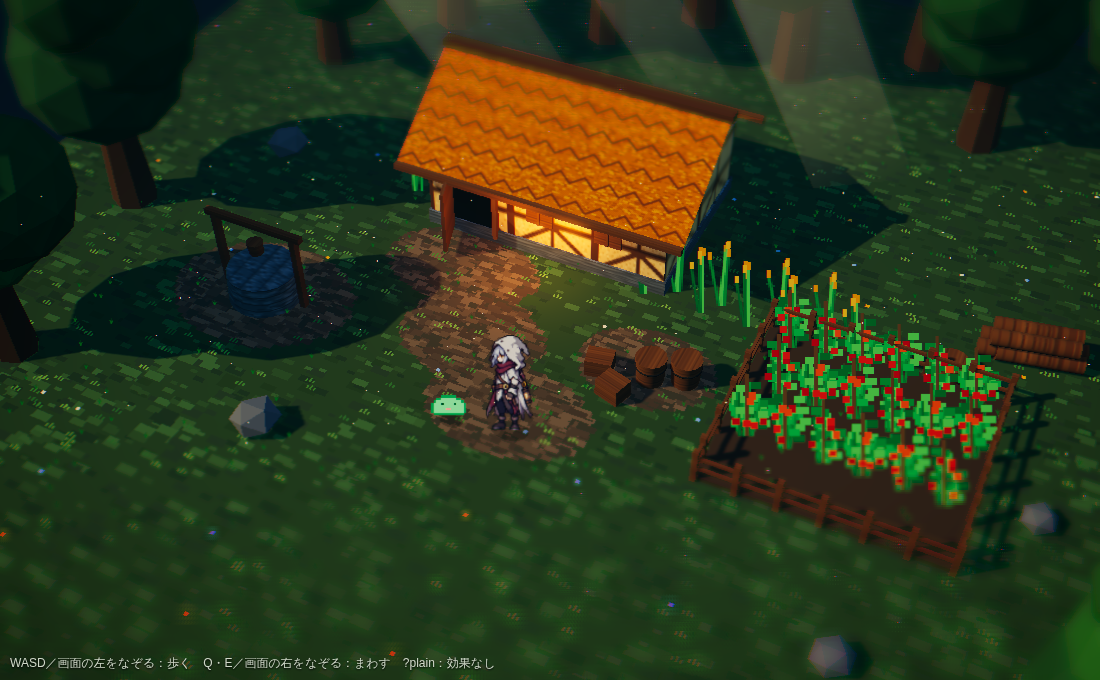
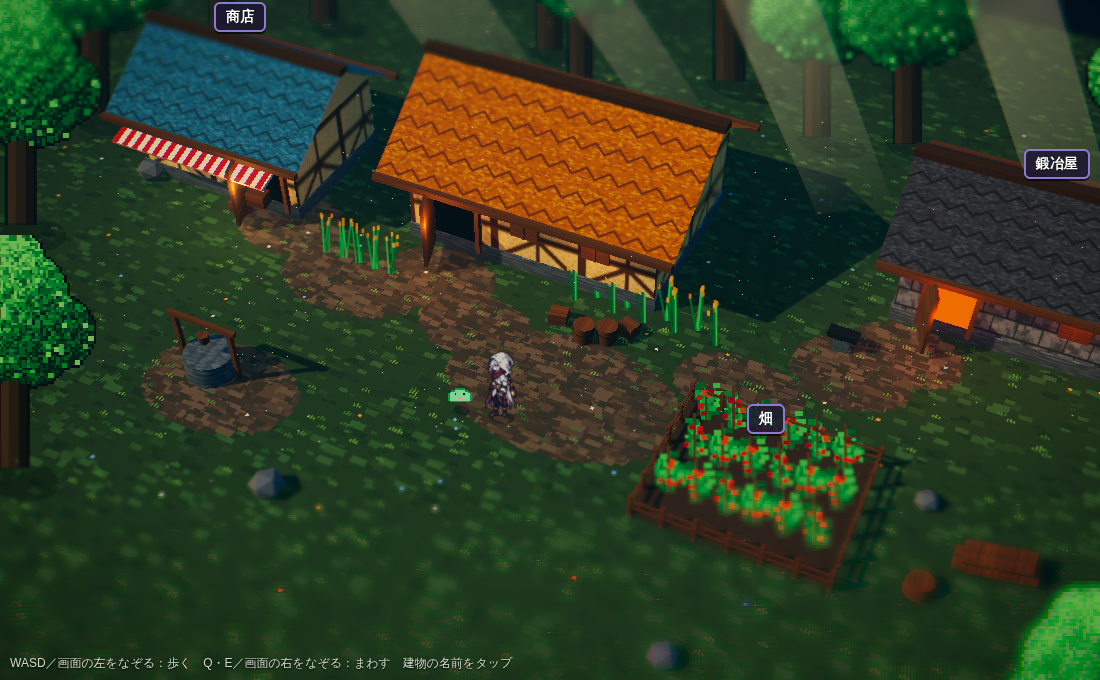
ドット迷宮：ホーム第2版（大きい建物・商店と鍛冶屋・ドット絵の木・畑と店と鍛冶屋の画面）
Claude-Session: https://claude.ai/code/session_01PXvRjEgLscSV4i6yF2Genv

diff --git a/games/dot-meikyu/home/index.html b/games/dot-meikyu/home/index.html
@@ -3,15 +3,25 @@
 <meta name="viewport" content="width=device-width,initial-scale=1,maximum-scale=1,user-scalable=no">
 <title>ドット迷宮 ホーム（見た目の試作）</title>
 <style>
-html,body{margin:0;height:100%;background:#0b1013;overflow:hidden;touch-action:none;user-select:none;-webkit-user-select:none}
+html,body{margin:0;height:100%;background:#0b1013;overflow:hidden;touch-action:none;user-select:none;-webkit-user-select:none;font-family:"Hiragino Kaku Gothic ProN","Noto Sans JP","Yu Gothic",Meiryo,sans-serif}
 canvas{display:block}
-#hint{position:fixed;left:10px;bottom:8px;color:#cfd8c8;font:12px/1.5 "Hiragino Kaku Gothic ProN","Noto Sans JP",sans-serif;text-shadow:0 1px 2px #000;pointer-events:none}
-#err{position:fixed;inset:0;display:none;align-items:center;justify-content:center;color:#fff;font:14px sans-serif;padding:20px;text-align:center}
+#hint{position:fixed;left:10px;bottom:8px;color:#cfd8c8;font-size:12px;line-height:1.5;text-shadow:0 1px 2px #000;pointer-events:none}
+.lab{position:fixed;transform:translate(-50%,-100%);background:#1d1830e0;color:#fff;border:2px solid #8a7bd0;border-radius:6px;padding:4px 10px;font-size:14px;font-weight:bold;cursor:pointer;white-space:nowrap;text-shadow:0 1px 0 #000;box-shadow:0 2px 0 #000a}
+.lab:active{transform:translate(-50%,-96%)}
+#panel{position:fixed;left:50%;top:50%;transform:translate(-50%,-50%);width:min(88vw,420px);max-height:84vh;overflow:auto;background:#1b1628f2;color:#f2eee6;border:3px solid #8a7bd0;border-radius:8px;padding:14px 16px;display:none;box-shadow:0 6px 0 #000a;font-size:15px;line-height:1.6}
+#panel h2{margin:0 0 6px;font-size:20px;color:#ffd34d}
+#panel .row{display:flex;justify-content:space-between;align-items:center;gap:8px;padding:6px 0;border-bottom:1px solid #3a3358}
+#panel button{background:#3d3560;color:#fff;border:2px solid #8a7bd0;border-radius:6px;padding:6px 12px;font:inherit;font-size:14px;cursor:pointer;white-space:nowrap}
+#panel button:disabled{opacity:.4;cursor:default}
+#panel .bar{height:8px;background:#0008;border-radius:4px;overflow:hidden;width:90px;display:inline-block;vertical-align:middle}
+#panel .bar i{display:block;height:100%;background:#6edb86}
+#panel .note{font-size:12px;color:#a9a3c0}
+#panel .close{margin-top:10px;width:100%}
 </style>
 <script type="importmap">{"imports":{"three":"https://cdn.jsdelivr.net/npm/three@0.160.0/build/three.module.js","three/addons/":"https://cdn.jsdelivr.net/npm/three@0.160.0/examples/jsm/"}}</script>
 </head><body>
-<div id="hint">WASD／画面の左をなぞる：歩く　Q・E／画面の右をなぞる：まわす　?plain：効果なし</div>
-<div id="err">3Dの部品をネットから読み込めませんでした。ネットにつないで開きなおしてください。</div>
+<div id="hint">WASD／画面の左をなぞる：歩く　Q・E／画面の右をなぞる：まわす　建物の名前をタップ</div>
+<div id="panel"></div>
 <script src="sprites.js"></script>
 <script type="module">
 import * as THREE from 'three';
@@ -20,6 +30,14 @@ import {RenderPass} from 'three/addons/postprocessing/RenderPass.js';
 import {UnrealBloomPass} from 'three/addons/postprocessing/UnrealBloomPass.js';
 import {ShaderPass} from 'three/addons/postprocessing/ShaderPass.js';
 import {OutputPass} from 'three/addons/postprocessing/OutputPass.js';
+
+// ===== セーブ（戦闘のゲームと同じ入れもの） =====
+const SAVE='dotmeikyu_v1';
+let save={souls:0,up:{hp:0,luck:0,reroll:0},best:0};
+try{const s=JSON.parse(localStorage.getItem(SAVE));if(s&&s.up)save=Object.assign(save,s,{up:Object.assign(save.up,s.up)})}catch(e){}
+save.home=Object.assign({coins:0,inv:{tomato:0,potion:0},plots:[0,0,0],love:0},save.home);
+save.home.inv=Object.assign({tomato:0,potion:0},save.home.inv);
+const persist=()=>{try{localStorage.setItem(SAVE,JSON.stringify(save))}catch(e){}};
 
 // ===== 小道具 =====
 const PLAIN=location.search.includes('plain');
@@ -35,85 +53,101 @@ renderer.setPixelRatio(Math.min(devicePixelRatio,2));renderer.setSize(innerWidth
 renderer.shadowMap.enabled=true;renderer.shadowMap.type=THREE.PCFSoftShadowMap;
 renderer.toneMapping=THREE.ACESFilmicToneMapping;renderer.toneMappingExposure=1.45;
 document.body.appendChild(renderer.domElement);
-const scene=new THREE.Scene();scene.background=new THREE.Color('#16222a');scene.fog=new THREE.FogExp2('#1e3034',.02);
-const camera=new THREE.PerspectiveCamera(30,innerWidth/innerHeight,.5,80);
+const scene=new THREE.Scene();scene.background=new THREE.Color('#16222a');scene.fog=new THREE.FogExp2('#1e3034',.017);
+const camera=new THREE.PerspectiveCamera(30,innerWidth/innerHeight,.5,120);
 scene.add(new THREE.HemisphereLight('#9fbce0','#3a5030',1.5));
-const sun=new THREE.DirectionalLight('#ffcf8f',3.4);sun.position.set(-9,9,7);sun.castShadow=true;
-sun.shadow.mapSize.set(2048,2048);Object.assign(sun.shadow.camera,{left:-15,right:15,top:15,bottom:-15,near:1,far:40});sun.shadow.bias=-.0004;sun.shadow.radius=3;
+const sun=new THREE.DirectionalLight('#ffcf8f',3.4);sun.position.set(-12,12,9);sun.castShadow=true;
+sun.shadow.mapSize.set(2048,2048);Object.assign(sun.shadow.camera,{left:-24,right:24,top:20,bottom:-20,near:1,far:60});sun.shadow.bias=-.0004;sun.shadow.radius=3;
 scene.add(sun);scene.add(sun.target);
 
 // ===== 地面（ドット絵ふうの草と土） =====
-const GROUND=30;
-const gt=ctex(768,768,(x,w,h)=>{const R=rng(7);x.fillStyle='#2c4528';x.fillRect(0,0,w,h);
+const GROUND=48;
+const gt=ctex(1024,1024,(x,w,h)=>{const R=rng(7);x.fillStyle='#2c4528';x.fillRect(0,0,w,h);
  const g=['#34502e','#274023','#3d5c35','#2a3f2b','#41633a','#223a25'];
- for(let i=0;i<9000;i++){x.fillStyle=pick(R,g);const s=2+((R()*4)|0);x.fillRect((R()*w)|0,(R()*h)|0,s*2,s)}
- const wx=v=>(v+GROUND/2)/GROUND*w,wz=v=>(v+GROUND/2)/GROUND*h;
- const dirt=(cx,cz,rx,rz,n)=>{for(let i=0;i<n;i++){const a=R()*6.283,r=Math.sqrt(R());x.fillStyle=pick(R,['#4d4036','#5b4b3d','#463a31','#6a5848','#3d3a30']);x.fillRect((wx(cx)+Math.cos(a)*rx*r*w/GROUND)|0,(wz(cz)+Math.sin(a)*rz*r*h/GROUND)|0,4+((R()*7)|0),3+((R()*2)|0))}};
- dirt(-4.2,-.2,1.6,1.1,1500);dirt(-3,1.6,1.4,1.2,1500);dirt(-1.4,3.1,1.6,1.1,1400);dirt(-7.6,2.4,1.9,1.5,1700);dirt(.6,.9,1.3,1,900);
- for(let i=0;i<1400;i++){const px=(R()*w)|0,py=(R()*h)|0;x.fillStyle=pick(R,['#5d8a45','#6f9a4a','#4a7a3c','#3a6a36']);x.fillRect(px,py,1,3);x.fillRect(px+2,py+1,1,2);x.fillRect(px-2,py+1,1,2)}
- for(let i=0;i<120;i++){const px=(R()*w)|0,py=(R()*h)|0;x.fillStyle=pick(R,['#7fa8d8','#e8a03c','#d8d8c0']);x.fillRect(px,py,2,2)}
+ for(let i=0;i<14000;i++){x.fillStyle=pick(R,g);const s=2+((R()*4)|0);x.fillRect((R()*w)|0,(R()*h)|0,s*2,s)}
+ const k=w/GROUND,wx=v=>(v+GROUND/2)*k,wz=v=>(v+GROUND/2)*k;
+ const dirt=(cx,cz,rx,rz,n)=>{for(let i=0;i<n;i++){const a=R()*6.283,r=Math.sqrt(R());x.fillStyle=pick(R,['#4d4036','#5b4b3d','#463a31','#6a5848','#3d3a30']);x.fillRect((wx(cx)+Math.cos(a)*rx*r*k)|0,(wz(cz)+Math.sin(a)*rz*r*k)|0,5+((R()*7)|0),4+((R()*2)|0))}};
+ dirt(0,2,3.4,2.2,3600);dirt(-5.6,-.8,1.6,1.3,1200);dirt(-3.6,.6,1.6,1.2,1000);dirt(-8,.6,2.2,1.3,1300);dirt(-11.2,-1,1.6,1.4,1100);
+ dirt(4.5,-.4,1.8,1.2,1000);dirt(7.2,-2.4,1.6,1.4,1100);dirt(8.4,-3.8,1.5,1.2,900);dirt(-9,6,2.2,1.6,1600);
+ for(let i=0;i<2400;i++){const px=(R()*w)|0,py=(R()*h)|0;x.fillStyle=pick(R,['#5d8a45','#6f9a4a','#4a7a3c','#3a6a36']);x.fillRect(px,py,1,3);x.fillRect(px+2,py+1,1,2);x.fillRect(px-2,py+1,1,2)}
+ for(let i=0;i<200;i++){const px=(R()*w)|0,py=(R()*h)|0;x.fillStyle=pick(R,['#7fa8d8','#e8a03c','#d8d8c0']);x.fillRect(px,py,2,2)}
 });
 const ground=new THREE.Mesh(new THREE.PlaneGeometry(GROUND,GROUND),new THREE.MeshStandardMaterial({map:gt,roughness:1}));
 ground.rotation.x=-Math.PI/2;ground.receiveShadow=true;scene.add(ground);
 
 // ===== 材質の絵 =====
-const thatch=ctex(128,128,(x,w,h)=>{const R=rng(3);x.fillStyle='#b8641d';x.fillRect(0,0,w,h);
- for(let i=0;i<900;i++){x.fillStyle=pick(R,['#c9782a','#a85a1a','#d28a34','#9c501a']);x.fillRect((R()*w)|0,(R()*h)|0,3+((R()*5)|0),2)}
- x.strokeStyle='#6e3612';x.lineWidth=3;for(let r=0;r<4;r++){x.beginPath();for(let i=0;i<=8;i++){const px=i*16,py=r*32+(i%2?10:22);i?x.lineTo(px,py):x.moveTo(px,py)}x.stroke()}},{rep:[3,1.4]});
+function roofTex(base,vars,mark,seed,rep){return ctex(128,128,(x,w,h)=>{const R=rng(seed);x.fillStyle=base;x.fillRect(0,0,w,h);
+ for(let i=0;i<900;i++){x.fillStyle=pick(R,vars);x.fillRect((R()*w)|0,(R()*h)|0,3+((R()*5)|0),2)}
+ x.strokeStyle=mark;x.lineWidth=3;for(let r=0;r<4;r++){x.beginPath();for(let i=0;i<=8;i++){const px=i*16,py=r*32+(i%2?10:22);i?x.lineTo(px,py):x.moveTo(px,py)}x.stroke()}},{rep})}
 function timber(rep){return ctex(128,64,(x,w,h)=>{const R=rng(5);x.fillStyle='#e6c283';x.fillRect(0,0,w,h);
  for(let i=0;i<500;i++){x.fillStyle=pick(R,['#d8b274','#efd193','#cfa966']);x.fillRect((R()*w)|0,(R()*h)|0,3,2)}
  x.fillStyle='#4e2c1b';x.fillRect(0,0,6,h);x.fillRect(w-6,0,6,h);x.fillRect(0,0,w,6);x.fillRect(0,h-6,w,6);x.fillRect(0,h/2-3,w,6);x.fillRect(w/2-3,0,6,h);
  x.strokeStyle='#4e2c1b';x.lineWidth=5;x.beginPath();x.moveTo(6,h-6);x.lineTo(w/2-3,h/2+3);x.moveTo(w-6,h-6);x.lineTo(w/2+3,h/2+3);x.stroke()},{rep})}
+function brick(rep){return ctex(128,64,(x,w,h)=>{const R=rng(12);x.fillStyle='#5d6570';x.fillRect(0,0,w,h);
+ for(let i=0;i<260;i++){x.fillStyle=pick(R,['#6b7480','#4a525c','#757e8a']);x.fillRect((R()*w)|0,(R()*h)|0,8,5)}
+ x.fillStyle='#2d353e';for(let y=0;y<h;y+=16){x.fillRect(0,y,w,2);for(let xx=(y/16%2)*16;xx<w;xx+=32)x.fillRect(xx,y,2,16)}},{rep})}
 const wood=ctex(64,64,(x,w,h)=>{const R=rng(9);x.fillStyle='#6a4025';x.fillRect(0,0,w,h);for(let i=0;i<20;i++){x.fillStyle=pick(R,['#5a3320','#7a4b2c','#4a2a1a']);x.fillRect(0,(R()*h)|0,w,2)}},{rep:[1,1]});
 const stone=ctex(64,64,(x,w,h)=>{const R=rng(11);x.fillStyle='#4a5560';x.fillRect(0,0,w,h);for(let i=0;i<120;i++){x.fillStyle=pick(R,['#5a6672','#3a444f','#66727e']);x.fillRect((R()*w)|0,(R()*h)|0,6,4)}x.fillStyle='#2d353e';for(let y=0;y<h;y+=16)x.fillRect(0,y,w,2)},{rep:[3,1]});
 const M=(o)=>new THREE.MeshStandardMaterial(Object.assign({roughness:.9},o));
 function put(geo,mat,x,y,z,o={}){const m=new THREE.Mesh(geo,mat);m.position.set(x,y,z);m.castShadow=o.cast!==false;m.receiveShadow=true;if(o.rot)m.rotation.set(...o.rot);scene.add(m);return m}
 
-// ===== 家 =====
-const L=5.6,D=4,Hh=1.9,RH=1.5,OV=.5,HX=-2.6,HZ=-3.2;
-const house=new THREE.Group();house.position.set(HX,0,HZ);scene.add(house);
-const frontMat=M({map:timber([L/2,1])}),sideMat=M({map:timber([D/2,1])});
-const walls=new THREE.Mesh(new THREE.BoxGeometry(L,Hh,D),[sideMat,sideMat,M({color:'#3a2a20'}),M({color:'#3a2a20'}),frontMat,frontMat]);
-walls.position.y=Hh/2;walls.castShadow=walls.receiveShadow=true;house.add(walls);
-const base=new THREE.Mesh(new THREE.BoxGeometry(L+.1,.35,D+.1),M({map:stone}));base.position.y=.17;base.receiveShadow=true;house.add(base);
-const dz=D/2+OV,dy=RH+.15,slope=Math.hypot(dz,dy),th=Math.atan2(dy,dz);
-for(const s of[1,-1]){const r=new THREE.Mesh(new THREE.PlaneGeometry(L+OV*2,slope),M({map:thatch,side:THREE.DoubleSide}));
- r.position.set(0,Hh-.15+dy/2,s*dz/2);r.rotation.set(s>0?th-Math.PI/2:Math.PI/2-th,s>0?0:Math.PI,0);r.castShadow=r.receiveShadow=true;house.add(r)}
-const ridge=new THREE.Mesh(new THREE.BoxGeometry(L+OV*2+.1,.16,.3),M({color:'#4e2c1b'}));ridge.position.set(0,Hh+RH+.02,0);ridge.castShadow=true;house.add(ridge);
-for(const s of[1,-1]){const e=new THREE.Mesh(new THREE.BoxGeometry(L+OV*2,.14,.14),M({map:wood}));e.position.set(0,Hh-.15,s*dz);e.castShadow=true;house.add(e);
- const gable=new THREE.Mesh(new THREE.ShapeGeometry(new THREE.Shape([new THREE.Vector2(-D/2,Hh),new THREE.Vector2(D/2,Hh),new THREE.Vector2(0,Hh+RH)])),M({color:'#d9b97b',side:THREE.DoubleSide}));
- gable.position.x=s*(L/2+.01);gable.rotation.y=s*Math.PI/2;house.add(gable)}
-// 戸口・窓・あかり
-const doorX=-1.7;
-const hole=new THREE.Mesh(new THREE.PlaneGeometry(1,1.55),new THREE.MeshBasicMaterial({color:'#050403'}));hole.position.set(doorX,.78+.17,D/2+.02);house.add(hole);
-for(const[x,y,w,h]of[[doorX-.55,1,.1,1.7],[doorX+.55,1,.1,1.7],[doorX,1.82,1.2,.12]]){const f=new THREE.Mesh(new THREE.BoxGeometry(w,h,.14),M({map:wood}));f.position.set(x,y,D/2+.06);f.castShadow=true;house.add(f)}
-const hinge=new THREE.Group();hinge.position.set(doorX-.5,.97,D/2+.1);hinge.rotation.y=-1.25;house.add(hinge);
-const leaf=new THREE.Mesh(new THREE.BoxGeometry(.95,1.55,.08),M({map:wood}));leaf.position.x=.48;leaf.castShadow=true;hinge.add(leaf);
-for(const wx of[-.1,1.5]){const win=new THREE.Mesh(new THREE.PlaneGeometry(.5,.45),new THREE.MeshBasicMaterial({color:'#ffb868'}));win.position.set(wx,1.15,D/2+.03);house.add(win);
- const fr=new THREE.Mesh(new THREE.BoxGeometry(.62,.57,.05),M({map:wood}));fr.position.set(wx,1.15,D/2+.01);house.add(fr);
- const cross=new THREE.Mesh(new THREE.BoxGeometry(.05,.5,.06),M({map:wood}));cross.position.set(wx,1.15,D/2+.06);house.add(cross)}
-const lamp=new THREE.PointLight('#ff9a48',7,7,1.6);lamp.position.set(HX-.3,1.2,HZ+D/2+.9);scene.add(lamp);
-const lamp2=new THREE.PointLight('#ff9a48',3,4,1.6);lamp2.position.set(HX+.7,1.2,HZ+D/2+.5);scene.add(lamp2);
+// ===== 建物（大きめ） =====
+const lights=[];
+function building(o){const{L,D,Hh,RH}=o,OV=.5,g=new THREE.Group();g.position.set(o.x,0,o.z);g.scale.setScalar(o.sc);scene.add(g);
+ const fw=o.wall==='stone'?brick([L/2,1]):timber([L/2,1]),sw=o.wall==='stone'?brick([D/2,1]):timber([D/2,1]);
+ const fm=M({map:fw}),sm=M({map:sw});
+ const walls=new THREE.Mesh(new THREE.BoxGeometry(L,Hh,D),[sm,sm,M({color:'#3a2a20'}),M({color:'#3a2a20'}),fm,fm]);walls.position.y=Hh/2;walls.castShadow=walls.receiveShadow=true;g.add(walls);
+ const base=new THREE.Mesh(new THREE.BoxGeometry(L+.1,.35,D+.1),M({map:stone}));base.position.y=.17;base.receiveShadow=true;g.add(base);
+ const dz=D/2+OV,dy=RH+.15,slope=Math.hypot(dz,dy),th=Math.atan2(dy,dz),rt=roofTex(...o.roof,[(L+1)/2,1.4]);
+ for(const s of[1,-1]){const r=new THREE.Mesh(new THREE.PlaneGeometry(L+OV*2,slope),M({map:rt,side:THREE.DoubleSide}));
+  r.position.set(0,Hh-.15+dy/2,s*dz/2);r.rotation.set(s>0?th-Math.PI/2:Math.PI/2-th,s>0?0:Math.PI,0);r.castShadow=r.receiveShadow=true;g.add(r)}
+ const ridge=new THREE.Mesh(new THREE.BoxGeometry(L+OV*2+.1,.16,.3),M({color:'#3e2418'}));ridge.position.set(0,Hh+RH+.02,0);ridge.castShadow=true;g.add(ridge);
+ for(const s of[1,-1]){const e=new THREE.Mesh(new THREE.BoxGeometry(L+OV*2,.14,.14),M({map:wood}));e.position.set(0,Hh-.15,s*dz);e.castShadow=true;g.add(e);
+  const gable=new THREE.Mesh(new THREE.ShapeGeometry(new THREE.Shape([new THREE.Vector2(-D/2,Hh),new THREE.Vector2(D/2,Hh),new THREE.Vector2(0,Hh+RH)])),M({color:o.wall==='stone'?'#6b7480':'#d9b97b',side:THREE.DoubleSide}));
+  gable.position.x=s*(L/2+.01);gable.rotation.y=s*Math.PI/2;g.add(gable)}
+ const dX=o.doorX;
+ const hole=new THREE.Mesh(new THREE.PlaneGeometry(1,1.55),new THREE.MeshBasicMaterial({color:o.hole||'#050403'}));hole.position.set(dX,.95,D/2+.02);g.add(hole);
+ for(const[x,y,w,h]of[[dX-.55,1,.1,1.7],[dX+.55,1,.1,1.7],[dX,1.82,1.2,.12]]){const f=new THREE.Mesh(new THREE.BoxGeometry(w,h,.14),M({map:wood}));f.position.set(x,y,D/2+.06);f.castShadow=true;g.add(f)}
+ const hinge=new THREE.Group();hinge.position.set(dX-.5,.97,D/2+.1);hinge.rotation.y=-1.25;g.add(hinge);
+ const leaf=new THREE.Mesh(new THREE.BoxGeometry(.95,1.55,.08),M({map:wood}));leaf.position.x=.48;leaf.castShadow=true;hinge.add(leaf);
+ for(const wx of o.windows){const win=new THREE.Mesh(new THREE.PlaneGeometry(.5,.45),new THREE.MeshBasicMaterial({color:'#ffb868'}));win.position.set(wx,1.15,D/2+.03);g.add(win);
+  const fr=new THREE.Mesh(new THREE.BoxGeometry(.62,.57,.05),M({map:wood}));fr.position.set(wx,1.15,D/2+.01);g.add(fr);
+  const cr=new THREE.Mesh(new THREE.BoxGeometry(.05,.5,.06),M({map:wood}));cr.position.set(wx,1.15,D/2+.06);g.add(cr)}
+ if(o.awning){const st=ctex(32,8,(x)=>{for(let i=0;i<8;i++){x.fillStyle=i%2?'#f2ead8':'#c8362e';x.fillRect(i*4,0,4,8)}},{rep:[L/1.2,1]});
+  const aw=new THREE.Mesh(new THREE.BoxGeometry(L*.95,.07,1),M({map:st}));aw.position.set(0,Hh-.25,D/2+.5);aw.rotation.x=.3;aw.castShadow=true;g.add(aw)}
+ if(o.chimney){const c=new THREE.Mesh(new THREE.BoxGeometry(.7,1.7,.7),new THREE.MeshStandardMaterial({map:brick([1,1]),roughness:1}));c.position.set(L/2-1,Hh+RH*.6+.6,-.4);c.castShadow=true;g.add(c);
+  const glow=new THREE.Mesh(new THREE.PlaneGeometry(.3,.2),new THREE.MeshBasicMaterial({color:'#ff7a2a'}));glow.position.set(L/2-1,Hh+RH*.6+1.3,-.04);g.add(glow)}
+ g.updateMatrixWorld(true);
+ const mk=(c,i,d,lx,ly,lz,fl)=>{const p=new THREE.PointLight(c,i,d,1.6);p.position.copy(g.localToWorld(new THREE.Vector3(lx,ly,lz)));scene.add(p);lights.push({p,i,fl});return p};
+ mk(o.lamp||'#ff9a48',7,9,dX,1.3,D/2+1,1);mk(o.lamp||'#ff9a48',3,6,o.windows[o.windows.length-1],1.3,D/2+.6,1.7);
+ return g}
+building({x:-3,z:-5.2,sc:1.5,L:5.6,D:4,Hh:1.9,RH:1.5,wall:'timber',roof:['#b8641d',['#c9782a','#a85a1a','#d28a34','#9c501a'],'#6e3612',3],doorX:-1.7,windows:[-.1,1.5]});
+building({x:-14,z:-3.6,sc:1.4,L:4.4,D:3.4,Hh:1.9,RH:1.3,wall:'timber',roof:['#2f6a88',['#3a7a9a','#285a74','#4688a8','#224e66'],'#1a3a4c',8],doorX:1.4,windows:[-.9],awning:true,lamp:'#ffc070'});
+building({x:11,z:-7.6,sc:1.4,L:4.6,D:3.6,Hh:1.9,RH:1.2,wall:'stone',roof:['#3b3b46',['#464652','#30303a','#52525e','#2a2a34'],'#1c1c24',15],doorX:-1.2,windows:[1.3],chimney:true,hole:'#ff6a22',lamp:'#ff7a2a'});
 
 // ===== 小物 =====
 // 井戸
-const WX=-7.4,WZ=2.4;
+const WX=-9.4,WZ=5.6;
 put(new THREE.CylinderGeometry(.75,.8,.7,18),M({map:stone}),WX,.35,WZ);
 const water=new THREE.Mesh(new THREE.CircleGeometry(.6,18),new THREE.MeshStandardMaterial({color:'#2f5f8a',roughness:.15,metalness:.2}));water.rotation.x=-Math.PI/2;water.position.set(WX,.6,WZ);scene.add(water);
 for(const s of[-1,1])put(new THREE.BoxGeometry(.14,1.9,.14),M({map:wood}),WX+s*.95,.95,WZ);
 put(new THREE.BoxGeometry(2.3,.14,.14),M({map:wood}),WX,1.85,WZ);
 put(new THREE.CylinderGeometry(.18,.15,.28,10),M({map:wood}),WX,1.3,WZ+.05);
 // まき・切り株
-for(const[x,y,z]of[[0,.2,0],[.36,.2,0],[.18,.54,0],[0,.2,.38],[.36,.2,.38],[.18,.54,.38]]){const lg=put(new THREE.CylinderGeometry(.18,.18,1.7,12),M({map:wood}),7.4+x,y,-2.9+z,{rot:[0,0,Math.PI/2]});lg.rotation.y=.2}
-put(new THREE.CylinderGeometry(.35,.4,.4,12),M({map:wood}),6.2,.2,-1.5);
-// たる・はこ
-for(const[x,z]of[[.9,1.2],[1.55,.95]]){put(new THREE.CylinderGeometry(.32,.28,.62,14),M({map:wood}),x,.31,z);put(new THREE.TorusGeometry(.3,.025,6,16),M({color:'#2a2a30',metalness:.6,roughness:.4}),x,.4,z,{rot:[Math.PI/2,0,0]})}
-for(const[x,z,r]of[[-.1,1.4,.2],[.4,1.9,-.3]])put(new THREE.BoxGeometry(.55,.4,.45),M({map:wood}),x,.2,z,{rot:[0,r,0]});
+for(const[x,y,z]of[[0,.2,0],[.36,.2,0],[.18,.54,0],[0,.2,.38],[.36,.2,.38],[.18,.54,.38]]){const lg=put(new THREE.CylinderGeometry(.18,.18,1.7,12),M({map:wood}),12.4+x,y,2.6+z,{rot:[0,0,Math.PI/2]});lg.rotation.y=.2}
+put(new THREE.CylinderGeometry(.35,.4,.4,12),M({map:wood}),11,.2,4.2);
+// たる・はこ（家の前）
+for(const[x,z]of[[-.2,-.2],[.45,-.45]]){put(new THREE.CylinderGeometry(.32,.28,.62,14),M({map:wood}),x,.31,z);put(new THREE.TorusGeometry(.3,.025,6,16),M({color:'#2a2a30',metalness:.6,roughness:.4}),x,.4,z,{rot:[Math.PI/2,0,0]})}
+for(const[x,z,r]of[[-1.2,-.6,.2],[.9,-1,-.3]])put(new THREE.BoxGeometry(.55,.4,.45),M({map:wood}),x,.2,z,{rot:[0,r,0]});
+// 商店の前の箱
+for(const[x,z,r]of[[-12.2,-.9,.1],[-12.9,-.7,-.2],[-12.5,-.9,0]])put(new THREE.BoxGeometry(.6,.45,.5),M({map:wood}),x,x<-12.6?.22:.22+(x>-12.6?.45:0),z,{rot:[0,r,0]});
+// 鍛冶屋の前のかなとこ
+put(new THREE.BoxGeometry(.5,.45,.4),M({map:stone}),6.8,.22,-3.2);put(new THREE.BoxGeometry(.9,.18,.4),M({color:'#3a3d46',metalness:.7,roughness:.4}),6.8,.54,-3.2);
 // 畑のさく・土
-const GX0=2.6,GX1=7.4,GZ0=-1.2,GZ1=3.2;
+const GX0=3.6,GX1=9,GZ0=.8,GZ1=5.2;
 put(new THREE.BoxGeometry(GX1-GX0,.1,GZ1-GZ0),M({color:'#3a2a22'}),(GX0+GX1)/2,.05,(GZ0+GZ1)/2,{cast:false});
 const post=(x,z)=>put(new THREE.BoxGeometry(.12,.8,.12),M({map:wood}),x,.4,z);
-for(let x=GX0;x<=GX1+.01;x+=.8){post(x,GZ1);post(x,GZ0)}for(let z=GZ0;z<=GZ1+.01;z+=.8){post(GX1,z);post(GX0,z)}
+for(let x=GX0;x<=GX1+.01;x+=.9){post(x,GZ1);post(x,GZ0)}for(let z=GZ0;z<=GZ1+.01;z+=.88){post(GX1,z);post(GX0,z)}
 for(const y of[.35,.62]){put(new THREE.BoxGeometry(GX1-GX0,.06,.06),M({map:wood}),(GX0+GX1)/2,y,GZ1);put(new THREE.BoxGeometry(GX1-GX0,.06,.06),M({map:wood}),(GX0+GX1)/2,y,GZ0);
  put(new THREE.BoxGeometry(.06,.06,GZ1-GZ0),M({map:wood}),GX1,y,(GZ0+GZ1)/2);put(new THREE.BoxGeometry(.06,.06,GZ1-GZ0),M({map:wood}),GX0,y,(GZ0+GZ1)/2)}
 
@@ -127,31 +161,42 @@ function plant(kind,seed){return ctex(32,48,(x,w,h)=>{const R=rng(seed);const gs
 const sprites=[];
 function spr(tex,x,z,sx,sy,o={}){const m=new THREE.Sprite(new THREE.SpriteMaterial({map:tex,color:o.color||'#d8e0d0',fog:true}));m.center.set(.5,0);m.scale.set(sx,sy,1);m.position.set(x,0,z);scene.add(m);sprites.push(m);return m}
 const tomato=[plant('tomato',1),plant('tomato',2),plant('tomato',3)];
-for(let r=0;r<3;r++)for(let i=0;i<6;i++)spr(tomato[(r+i)%3],GX0+.6+i*.75+(r%2)*.2,GZ0+.55+r*1.3,1.1,1.65);
+for(let r=0;r<3;r++)for(let i=0;i<6;i++)spr(tomato[(r+i)%3],GX0+.7+i*.8+(r%2)*.2,GZ0+.6+r*1.4,1.15,1.7);
 const flo=[plant('flower',4),plant('flower',5)];
-for(let i=0;i<9;i++)spr(flo[i%2],-.2+i*.55+(i%3)*.1,-1.0-(i%2)*.4,.9,1.5);
-for(let i=0;i<5;i++)spr(plant('flower',20+i),-6.2+i*.6,-2.0,.9,1.4);
+for(let i=0;i<9;i++)spr(flo[i%2],-1.2+i*.55+(i%3)*.1,-1.6-(i%2)*.4,.9,1.5);
+for(let i=0;i<5;i++)spr(plant('flower',20+i),-9.2+i*.6,-.2,.9,1.4);
 // 草のかたまり（点）
 const tuft=ctex(16,16,(x)=>{x.strokeStyle='#4f8a40';x.lineWidth=2;for(const[a,b]of[[3,6],[8,2],[13,7]]){x.beginPath();x.moveTo(8,16);x.lineTo(a,b);x.stroke()}});
-const R2=rng(21),pp=[];for(let i=0;i<500;i++)pp.push((R2()-.5)*26,.18,(R2()-.5)*22);
+const R2=rng(21),pp=[];for(let i=0;i<700;i++)pp.push((R2()-.5)*40,.18,(R2()-.5)*30);
 const tg=new THREE.BufferGeometry();tg.setAttribute('position',new THREE.Float32BufferAttribute(pp,3));
 scene.add(new THREE.Points(tg,new THREE.PointsMaterial({map:tuft,size:.5,transparent:true,alphaTest:.4,depthWrite:true,color:'#9ab890'})));
 
-// ===== 木・岩 =====
-const gm=['#1f4a2a','#2a5a30','#336a36','#24502e'].map(c=>M({color:c,flatShading:true}));
-function tree(x,z,s,R){const g=new THREE.Group();g.position.set(x,0,z);g.scale.setScalar(s);
- const tr=new THREE.Mesh(new THREE.CylinderGeometry(.18,.3,2,7),M({color:'#4a2f1d',flatShading:true}));tr.position.y=1;tr.castShadow=true;g.add(tr);
- for(let i=0;i<4;i++){const c=new THREE.Mesh(new THREE.IcosahedronGeometry(1.1-i*.12,1),gm[(R()*4)|0]);c.position.set((R()-.5)*.8,2+i*.62,(R()-.5)*.8);c.castShadow=true;c.receiveShadow=true;g.add(c)}scene.add(g)}
-const R3=rng(33);
-for(const[x,z,s]of[[-11,-6,1.6],[-9,-9,1.9],[-5,-10,1.7],[0,-10.5,2],[5,-9.5,1.7],[9,-8,1.9],[12,-4,1.6],[11.5,3,1.5],[-12,1,1.7],[-11,6,1.5],[10,7,1.4],[-3,-12,2.1],[3,-12.5,1.9],[14,-9,2]])tree(x,z,s,R3);
-for(const[x,z,s]of[[-5.4,5.6,.5],[6,5.8,.4],[8.5,1.5,.35],[-9.8,-2,.5]]){const r=new THREE.Mesh(new THREE.IcosahedronGeometry(s,0),M({color:'#5a6068',flatShading:true}));r.position.set(x,s*.5,z);r.scale.y=.7;r.castShadow=r.receiveShadow=true;scene.add(r)}
+// ===== 木（ドット絵の立て板） =====
+function treeTex(seed){return ctex(64,88,(x,w,h)=>{const R=rng(seed);
+ const C=[[32,24,20],[18,36,15],[46,36,15],[26,44,13],[39,44,13],[32,10,12]].map(([a,b,r])=>[a+((R()*4-2)|0),b+((R()*4-2)|0),r]);
+ const ins=(px,py)=>{for(const[cx,cy,r]of C){const dx=px-cx,dy=(py-cy)*1.08;if(dx*dx+dy*dy<r*r)return true}return false};
+ const tr=(px,py)=>px>=27&&px<=36&&py>=52&&py<h;
+ const pal=['#14301c','#1d4a26','#2a6a34','#3f8a42','#63ad55','#8bcf6e'];
+ for(let py=0;py<h;py++)for(let px=0;px<w;px++){
+  if(tr(px,py)&&!ins(px,py)){x.fillStyle=px<30?'#5e3c25':px>33?'#2e1c10':'#4a2f1d';x.fillRect(px,py,1,1);continue}
+  if(!ins(px,py))continue;
+  let b=.55-(py-30)/80-(px-32)/110+(R()-.5)*.5;if(((px>>1)+(py>>1))%5===0)b-=.18;
+  let i=Math.max(0,Math.min(5,Math.floor(b*6)));x.fillStyle=pal[i];x.fillRect(px,py,1,1)}
+ for(let k=0;k<110;k++){const px=(R()*w)|0,py=(R()*60)|0;if(!ins(px,py))continue;x.fillStyle=pal[2+((R()*4)|0)];x.fillRect(px,py,2,2)}
+ const img=x.getImageData(0,0,w,h),d=img.data,solid=(px,py)=>px>=0&&py>=0&&px<w&&py<h&&d[(py*w+px)*4+3]>0;
+ x.fillStyle='#0a150e';for(let py=0;py<h;py++)for(let px=0;px<w;px++)if(!solid(px,py)&&(solid(px-1,py)||solid(px+1,py)||solid(px,py-1)||solid(px,py+1)))x.fillRect(px,py,1,1)})}
+const treeTexs=[1,2,3].map(treeTex);
+function pixTree(x,z,s,i){const sp=spr(treeTexs[i%3],x,z,4.6*s,6.3*s,{color:'#d0dccb'});
+ const b=new THREE.Mesh(new THREE.CircleGeometry(1.1*s,18),new THREE.MeshBasicMaterial({color:'#000',transparent:true,opacity:.35,depthWrite:false}));b.rotation.x=-Math.PI/2;b.scale.set(1,.6,1);b.position.set(x+.5*s,.03,z+.2);scene.add(b)}
+[[-19,-8,1.2],[-17,-12,1.3],[-8,-14,1.25],[-1,-15,1.4],[6,-14,1.2],[15,-13,1.35],[19,-8,1.2],[20,-1,1.1],[18,6,1.15],[-19,3,1.2],[-18,9,1.1],[-12,11,1.0],[16,10,1.0],[-6,-12.5,1.1],[3,-13,1.15],[21,-9,1.3],[-21,-3,1.3]].forEach(([x,z,s],i)=>pixTree(x,z,s,i));
+for(const[x,z,s]of[[-5.4,8.6,.5],[6,8.8,.4],[10.5,1.5,.35],[-16.8,-1,.5]]){const r=new THREE.Mesh(new THREE.IcosahedronGeometry(s,0),M({color:'#5a6068',flatShading:true}));r.position.set(x,s*.5,z);r.scale.y=.7;r.castShadow=r.receiveShadow=true;scene.add(r)}
 
 // ===== 光のすじ・ちり =====
 const shaft=ctex(16,64,(x,w,h)=>{const g=x.createLinearGradient(0,0,0,h);g.addColorStop(0,'rgba(255,230,180,0)');g.addColorStop(.25,'rgba(255,230,180,.9)');g.addColorStop(1,'rgba(255,230,180,0)');x.fillStyle=g;x.fillRect(0,0,w,h)});
 shaft.magFilter=THREE.LinearFilter;
-for(const[x,z,w,rz]of[[-7,-4,2.6,.5],[-3.6,-6,1.6,.55],[1,-5.4,2.2,.45]]){const m=new THREE.Mesh(new THREE.PlaneGeometry(w,12),new THREE.MeshBasicMaterial({map:shaft,transparent:true,opacity:.1,blending:THREE.AdditiveBlending,depthWrite:false,fog:false,side:THREE.DoubleSide}));
- m.position.set(x,5,z);m.rotation.set(0,.6,rz);scene.add(m)}
-const dust=new THREE.Points((()=>{const g=new THREE.BufferGeometry(),p=[],R=rng(44);for(let i=0;i<160;i++)p.push((R()-.5)*18,R()*5+.3,(R()-.5)*14);g.setAttribute('position',new THREE.Float32BufferAttribute(p,3));return g})(),
+for(const[x,z,w,rz]of[[-10,-8,2.8,.5],[-4,-9,1.8,.55],[3,-8,2.4,.45],[10,-9,2.2,.5]]){const m=new THREE.Mesh(new THREE.PlaneGeometry(w,14),new THREE.MeshBasicMaterial({map:shaft,transparent:true,opacity:.1,blending:THREE.AdditiveBlending,depthWrite:false,fog:false,side:THREE.DoubleSide}));
+ m.position.set(x,6,z);m.rotation.set(0,.6,rz);scene.add(m)}
+const dust=new THREE.Points((()=>{const g=new THREE.BufferGeometry(),p=[],R=rng(44);for(let i=0;i<200;i++)p.push((R()-.5)*30,R()*5+.3,(R()-.5)*20);g.setAttribute('position',new THREE.Float32BufferAttribute(p,3));return g})(),
  new THREE.PointsMaterial({size:.07,color:'#ffe6b0',transparent:true,opacity:.55,blending:THREE.AdditiveBlending,depthWrite:false}));scene.add(dust);
 
 // ===== 主人公とペット =====
@@ -160,24 +205,59 @@ const heroTex={};for(const k of['left','right']){const t=loader.load(window.SPRI
 const HH=1.85;
 const hero=new THREE.Sprite(new THREE.SpriteMaterial({map:heroTex.right,color:'#f0f0f0',fog:true}));hero.center.set(.5,.02);hero.scale.set(HH*160/328,HH,1);scene.add(hero);
 const blob=new THREE.Mesh(new THREE.CircleGeometry(.4,16),new THREE.MeshBasicMaterial({color:'#000',transparent:true,opacity:.4,depthWrite:false}));blob.rotation.x=-Math.PI/2;blob.scale.set(1,.7,1);scene.add(blob);
-const slimeTex=ctex(16,14,(x)=>{const rows=["....gggggg......","..ggGGGGGGgg....",".gGGGGGGGGGGg...","gGGGkGGGGkGGGg..","gGGGGGGGGGGGGg..","gGGGGGrrGGGGGg..","gGGGGGGGGGGGGg..",".gggggggggggg..."];
- const C={g:'#2f8f4a',G:'#6edb86',k:'#14101c',r:'#ff8a8a'};rows.forEach((r,j)=>[...r].forEach((c,i)=>{if(c!=='.'){x.fillStyle=C[c];x.fillRect(i,j+4,1,1)}}))});
-const pet=new THREE.Sprite(new THREE.SpriteMaterial({map:slimeTex,color:'#f0f0f0',fog:true}));pet.center.set(.5,0);pet.scale.set(.75,.75*14/16,1);scene.add(pet);
-const petBlob=blob.clone();petBlob.scale.set(.6,.4,1);scene.add(petBlob);
+function slimeTexture(bow){return ctex(16,16,(x)=>{const rows=["....gggggg......","..ggGGGGGGgg....",".gGGGGGGGGGGg...","gGGGkGGGGkGGGg..","gGGGGGGGGGGGGg..","gGGGGGrrGGGGGg..","gGGGGGGGGGGGGg..",".gggggggggggg..."];
+ const C={g:'#2f8f4a',G:'#6edb86',k:'#14101c',r:'#ff8a8a'};rows.forEach((r,j)=>[...r].forEach((c,i)=>{if(c!=='.'){x.fillStyle=C[c];x.fillRect(i,j+4,1,1)}}));
+ if(bow){x.fillStyle='#e0364a';for(const[i,j]of[[4,3],[5,2],[6,3],[8,3],[9,2],[10,3],[7,3],[5,3],[9,3]])x.fillRect(i,j+2,1,1);x.fillStyle='#ffd34d';x.fillRect(7,5,1,1)}})}
+const slimeA=slimeTexture(false),slimeB=slimeTexture(true);
+const pet=new THREE.Sprite(new THREE.SpriteMaterial({map:slimeA,color:'#f0f0f0',fog:true}));pet.center.set(.5,0);scene.add(pet);
+const petBlob=blob.clone();scene.add(petBlob);
+const heartTex=ctex(8,8,(x)=>{x.fillStyle='#ff5a78';for(const[i,j]of[[1,1],[2,1],[5,1],[6,1],[0,2],[1,2],[2,2],[3,2],[4,2],[5,2],[6,2],[7,2],[0,3],[1,3],[2,3],[3,3],[4,3],[5,3],[6,3],[7,3],[1,4],[2,4],[3,4],[4,4],[5,4],[6,4],[2,5],[3,5],[4,5],[5,5],[3,6],[4,6]])x.fillRect(i,j,1,1)});
+const hearts=[];function heart(){const h=new THREE.Sprite(new THREE.SpriteMaterial({map:heartTex,transparent:true,fog:false}));h.scale.set(.32,.32,1);h.position.set(PET.x,1,PET.z);h.userData.t=0;scene.add(h);hearts.push(h)}
 const P={x:-1,z:3.6,face:'right'},PET={x:-2.1,z:3.9},keys={};let yaw=.45;
 
 // ===== 後処理（ぼかし・光のにじみ・色の調整） =====
 const composer=new EffectComposer(renderer);composer.addPass(new RenderPass(scene,camera));
 composer.addPass(new UnrealBloomPass(new THREE.Vector2(innerWidth,innerHeight),.42,.7,.78));
-const Grade={uniforms:{tDiffuse:{value:null},focus:{value:.56},blur:{value:2.2},res:{value:new THREE.Vector2(innerWidth,innerHeight)}},
+const Grade={uniforms:{tDiffuse:{value:null},focus:{value:.6},blur:{value:2.2},res:{value:new THREE.Vector2(innerWidth,innerHeight)}},
  vertexShader:'varying vec2 vUv;void main(){vUv=uv;gl_Position=projectionMatrix*modelViewMatrix*vec4(position,1.);}',
  fragmentShader:`uniform sampler2D tDiffuse;uniform float focus,blur;uniform vec2 res;varying vec2 vUv;
- void main(){float d=abs(vUv.y-focus);float amt=smoothstep(.1,.55,d)*blur;vec2 px=amt/res;vec3 c=vec3(0.);float tot=0.;
+ void main(){float d=abs(vUv.y-focus);float amt=smoothstep(.17,.6,d)*blur;vec2 px=amt/res;vec3 c=vec3(0.);float tot=0.;
   for(int i=-4;i<=4;i++){for(int j=-2;j<=2;j++){float w=exp(-float(i*i+j*j)*.12);c+=texture2D(tDiffuse,vUv+vec2(float(i)*px.x*1.5,float(j)*px.y*2.2)).rgb*w;tot+=w;}}
   c/=tot;float ca=.0016*length(vUv-.5);c.r=mix(c.r,texture2D(tDiffuse,vUv+vec2(ca,0.)).r,.6);c.b=mix(c.b,texture2D(tDiffuse,vUv-vec2(ca,0.)).b,.6);
   float l=dot(c,vec3(.299,.587,.114));c=mix(c*vec3(.82,.96,1.04),c*vec3(1.1,1.0,.86),smoothstep(.12,.7,l));c=mix(vec3(l),c,1.15);
   float v=smoothstep(1.0,.3,length((vUv-.5)*vec2(1.15,1.0)));c*=mix(.5,1.,v);gl_FragColor=vec4(c,1.);}`};
 const grade=new ShaderPass(Grade);composer.addPass(grade);composer.addPass(new OutputPass());
+
+// ===== 建物の名前札・画面（畑・商店・鍛冶屋） =====
+const TOM_MS=60000,panel=document.getElementById('panel');let cur=null,tick=null;
+const labels=[{id:'farm',name:'畑',p:new THREE.Vector3(6.3,2.3,3)},{id:'shop',name:'商店',p:new THREE.Vector3(-14,4.9,-3.6)},{id:'smith',name:'鍛冶屋',p:new THREE.Vector3(11,4.6,-7.6)}];
+for(const l of labels){const e=document.createElement('div');e.className='lab';e.textContent=l.name;e.addEventListener('pointerdown',ev=>ev.stopPropagation());e.addEventListener('click',()=>openPanel(l.id));document.body.appendChild(e);l.e=e}
+const v3=new THREE.Vector3();
+const UPS=[{k:'hp',n:'さいだいHP +10'},{k:'luck',n:'はじめの武器が良くなる'},{k:'reroll',n:'カード引き直し +1回'}];
+const loveLv=()=>save.home.love;
+function html(){const h=save.home;
+ if(cur==='farm'){const rows=h.plots.map((t,i)=>{const left=t?TOM_MS-(Date.now()-t):0;
+   const state=!t?`<button data-a="plant" data-i="${i}">トマトを植える</button>`:left>0?`<span class="bar"><i style="width:${100-left/TOM_MS*100}%"></i></span> のこり${Math.ceil(left/1000)}秒`:`<button data-a="harvest" data-i="${i}">収穫する</button>`;
+   return `<div class="row"><span>畑${i+1}</span><span>${state}</span></div>`}).join('');
+  return `<h2>畑</h2><div class="note">植えると60秒で育ちます（ゲームを閉じていても進みます）</div>${rows}
+   <div class="row"><span>トマト ${h.inv.tomato}個</span><button data-a="feed" ${h.inv.tomato<1?'disabled':''}>ペットにあげる</button></div>
+   <div class="note">ペットのなかよし度：♥ ${h.love}　（5で赤いリボン。大きさも少しずつ育ちます）</div>`}
+ if(cur==='shop')return `<h2>商店</h2><div class="note">コイン：${h.coins}</div>
+   <div class="row"><span>トマトを売る（1個 5コイン）</span><button data-a="sell" ${h.inv.tomato<1?'disabled':''}>売る（${h.inv.tomato}個）</button></div>
+   <div class="row"><span>薬びん（15コイン）<br><span class="note">もっている：${h.inv.potion}　※戦闘で使えるのはこれから</span></span><button data-a="buy" ${h.coins<15?'disabled':''}>買う</button></div>`;
+ if(cur==='smith')return `<h2>鍛冶屋</h2><div class="note">魂のかけら：${save.souls}　（戦闘で集めます。戦闘のゲームの強化と同じ）</div>`+UPS.map(u=>{const lv=save.up[u.k],cost=10*(lv+1),max=lv>=5;return `<div class="row"><span>${u.n}<br><span class="note">Lv ${lv}/5</span></span><button data-a="up" data-k="${u.k}" ${max||save.souls<cost?'disabled':''}>${max?'MAX':cost+'魂で強化'}</button></div>`}).join('')}
+function render(){if(!cur){panel.style.display='none';return}panel.innerHTML=html()+'<button class="close" data-a="close">閉じる</button>';panel.style.display='block'}
+function openPanel(id){cur=id;render();clearInterval(tick);tick=setInterval(()=>{if(cur==='farm')render()},1000)}
+panel.addEventListener('pointerdown',e=>e.stopPropagation());
+panel.addEventListener('click',e=>{const b=e.target.closest('button');if(!b||b.disabled)return;const a=b.dataset.a,h=save.home,i=+b.dataset.i;
+ if(a==='close'){cur=null;clearInterval(tick)}
+ else if(a==='plant')h.plots[i]=Date.now();
+ else if(a==='harvest'){h.plots[i]=0;h.inv.tomato++}
+ else if(a==='feed'){h.inv.tomato--;h.love++;for(let k=0;k<3;k++)setTimeout(heart,k*180)}
+ else if(a==='sell'){h.inv.tomato--;h.coins+=5}
+ else if(a==='buy'){h.coins-=15;h.inv.potion++}
+ else if(a==='up'){const k=b.dataset.k,cost=10*(save.up[k]+1);if(save.souls>=cost&&save.up[k]<5){save.souls-=cost;save.up[k]++}}
+ persist();render()});
 
 // ===== 操作 =====
 addEventListener('keydown',e=>{keys[e.key.toLowerCase()]=true});addEventListener('keyup',e=>{keys[e.key.toLowerCase()]=false});
@@ -192,25 +272,27 @@ addEventListener('resize',resize);resize();
 // ===== ループ =====
 const clock=new THREE.Clock();let camT=new THREE.Vector3(P.x,.8,P.z);
 function frame(){const dt=Math.min(.05,clock.getDelta()),t=clock.elapsedTime;
- if(keys.q)yaw+=dt*1.2;if(keys.e)yaw-=dt*1.2;yaw=Math.max(-1.3,Math.min(1.3,yaw));
- let ix=(keys.d||keys.arrowright?1:0)-(keys.a||keys.arrowleft?1:0),iz=(keys.s||keys.arrowdown?1:0)-(keys.w||keys.arrowup?1:0);
- if(touch.move){const dx=touch.move.x-touch.move.x0,dy=touch.move.y-touch.move.y0,d=Math.hypot(dx,dy);if(d>8){ix=dx/d;iz=dy/d}}
+ if(!cur){if(keys.q)yaw+=dt*1.2;if(keys.e)yaw-=dt*1.2}yaw=Math.max(-1.3,Math.min(1.3,yaw));
+ let ix=cur?0:(keys.d||keys.arrowright?1:0)-(keys.a||keys.arrowleft?1:0),iz=cur?0:(keys.s||keys.arrowdown?1:0)-(keys.w||keys.arrowup?1:0);
+ if(touch.move&&!cur){const dx=touch.move.x-touch.move.x0,dy=touch.move.y-touch.move.y0,d=Math.hypot(dx,dy);if(d>8){ix=dx/d;iz=dy/d}}
  const l=Math.hypot(ix,iz);let moving=false;
- if(l>0){ix/=l;iz/=l;moving=true;const s=2.6*dt,c=Math.cos(yaw),sn=Math.sin(yaw);
-  const wx=ix*c+iz*sn,wz=-ix*sn+iz*c;P.x=Math.max(-10,Math.min(10,P.x+wx*s));P.z=Math.max(-8,Math.min(7,P.z+wz*s));
+ if(l>0){ix/=l;iz/=l;moving=true;const s=2.8*dt,c=Math.cos(yaw),sn=Math.sin(yaw);
+  const wx=ix*c+iz*sn,wz=-ix*sn+iz*c;P.x=Math.max(-17,Math.min(17,P.x+wx*s));P.z=Math.max(-1.2,Math.min(9,P.z+wz*s));
   if(ix>.2)P.face='right';else if(ix<-.2)P.face='left'}
  hero.material.map=heroTex[P.face];
  const bob=moving?Math.abs(Math.sin(t*9))*.07:Math.sin(t*2)*.012;
  hero.position.set(P.x,bob,P.z);blob.position.set(P.x,.02,P.z);
- // ペットはあとを追いかけてはねる
+ // ペット：あとを追ってはねる。なかよし度で大きくなり、5でリボン
+ const lv=loveLv(),sz=.75*(1+Math.min(lv,20)*.02);pet.material.map=lv>=5?slimeB:slimeA;
  const dx=P.x-PET.x,dz=P.z-PET.z,dd=Math.hypot(dx,dz);if(dd>1.3){PET.x+=dx/dd*(dd-1.3)*dt*3;PET.z+=dz/dd*(dd-1.3)*dt*3}
- const hop=Math.abs(Math.sin(t*(dd>1.4?8:2.5)));pet.position.set(PET.x,hop*(dd>1.4?.25:.06),PET.z);pet.scale.set(.75*(1+(1-hop)*.08),.66*(.92+hop*.16),1);petBlob.position.set(PET.x,.02,PET.z);
- // カメラ：斜め45度から見下ろす
- camT.lerp(new THREE.Vector3(P.x*.5-.6,.6,P.z*.5-1.3),Math.min(1,dt*2.5));
- const dist=25,pitch=Math.PI/4;camera.position.set(camT.x+Math.sin(yaw)*Math.cos(pitch)*dist,camT.y+Math.sin(pitch)*dist,camT.z+Math.cos(yaw)*Math.cos(pitch)*dist);camera.lookAt(camT);
- lamp.intensity=7+Math.sin(t*13)*.5+Math.sin(t*5.3)*.4;lamp2.intensity=3+Math.sin(t*11)*.3;
+ const hop=Math.abs(Math.sin(t*(dd>1.4?8:2.5)));pet.position.set(PET.x,hop*(dd>1.4?.25:.06),PET.z);pet.scale.set(sz*(1+(1-hop)*.08),sz*(.92+hop*.16),1);petBlob.position.set(PET.x,.02,PET.z);petBlob.scale.set(sz*.8,sz*.55,1);
+ for(let i=hearts.length-1;i>=0;i--){const h=hearts[i];h.userData.t+=dt;h.position.set(PET.x,1+h.userData.t*.8,PET.z);h.material.opacity=Math.max(0,1-h.userData.t/1.2);if(h.userData.t>1.2){scene.remove(h);hearts.splice(i,1)}}
+ camT.lerp(new THREE.Vector3(P.x*.45-.3,.4,P.z*.35-2.2),Math.min(1,dt*2.5));
+ const dist=37,pitch=Math.PI/4;camera.position.set(camT.x+Math.sin(yaw)*Math.cos(pitch)*dist,camT.y+Math.sin(pitch)*dist,camT.z+Math.cos(yaw)*Math.cos(pitch)*dist);camera.lookAt(camT);
+ for(const o of lights)o.p.intensity=o.i+Math.sin(t*13*o.fl)*.5*o.fl+Math.sin(t*5.3)*.4;
  const pos=dust.geometry.attributes.position;for(let i=0;i<pos.count;i++){pos.setY(i,pos.getY(i)+Math.sin(t+i)*.002);pos.setX(i,pos.getX(i)+Math.cos(t*.6+i)*.0025)}pos.needsUpdate=true;
+ camera.updateMatrixWorld();for(const lb of labels){v3.copy(lb.p).project(camera);const vis=v3.z<1&&Math.abs(v3.x)<1.1&&Math.abs(v3.y)<1.1;lb.e.style.display=vis&&!cur?'block':'none';lb.e.style.left=((v3.x+1)/2*innerWidth)+'px';lb.e.style.top=((1-v3.y)/2*innerHeight)+'px'}
  if(PLAIN)renderer.render(scene,camera);else composer.render();
  requestAnimationFrame(frame)}
-frame();window.__ready=true;
+frame();window.__ready=true;window.__open=openPanel;
 </script></body></html>

diff --git a/games/dot-meikyu/STATUS.md b/games/dot-meikyu/STATUS.md
@@ -64,3 +64,11 @@
 - 斜め45度から見下ろす「HD-2D」ふう：立体の景色（農家・井戸・畑・木）＋ドット絵の戦士とペット。光（夕方の日ざし・あかり・光のすじ）、ぼかし、光のにじみ、色の調整つき
 - 操作：WASDで歩く、Q・Eで回す。スマホは左をなぞる＝歩く、右をなぞる＝回す
 - 次：商店・鍛冶屋の建物を足す／タップで「畑・商店・鍛冶屋」の画面を開く／建物の質感を素材で上げる／スマホで軽くする（`?plain` で効果なし）
+
+## ホーム 第2版（2026-10-04）
+- 建物を大きく（戦士の1.5倍ほどの壁）。商店（青い屋根・赤白のひさし）と鍛冶屋（石の壁・炉の火）を追加。木はドット絵の立て板に変更
+- 建物の名前札（畑・商店・鍛冶屋）をタップすると画面が開く。中身は動く試作：
+  - 畑：トマトを植える→60秒で育つ（閉じていても進む）→収穫→ペットにあげる（なかよし度。5で赤いリボン、大きさも育つ）
+  - 商店：トマトを売ってコイン→薬びんを買う（戦闘で使えるのはこれから）
+  - 鍛冶屋：魂のかけらで永続強化（戦闘のゲームと同じセーブ `dotmeikyu_v1` を共有。`home` という欄を追加）
+- 次：ペットの変化をもっと（食べた武器で見た目が変わる）／戦闘（ヴァンサバ式）の試作／建物の質感をChatGPTの絵で
